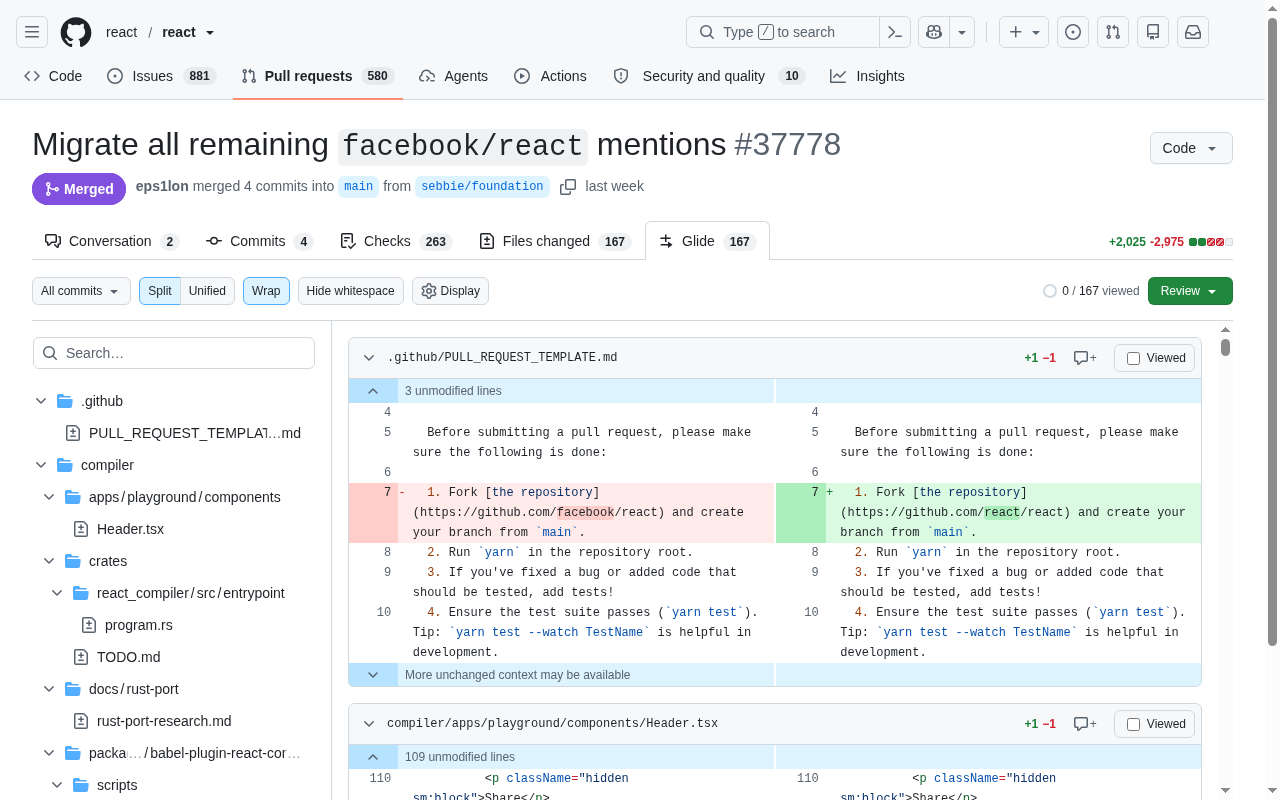
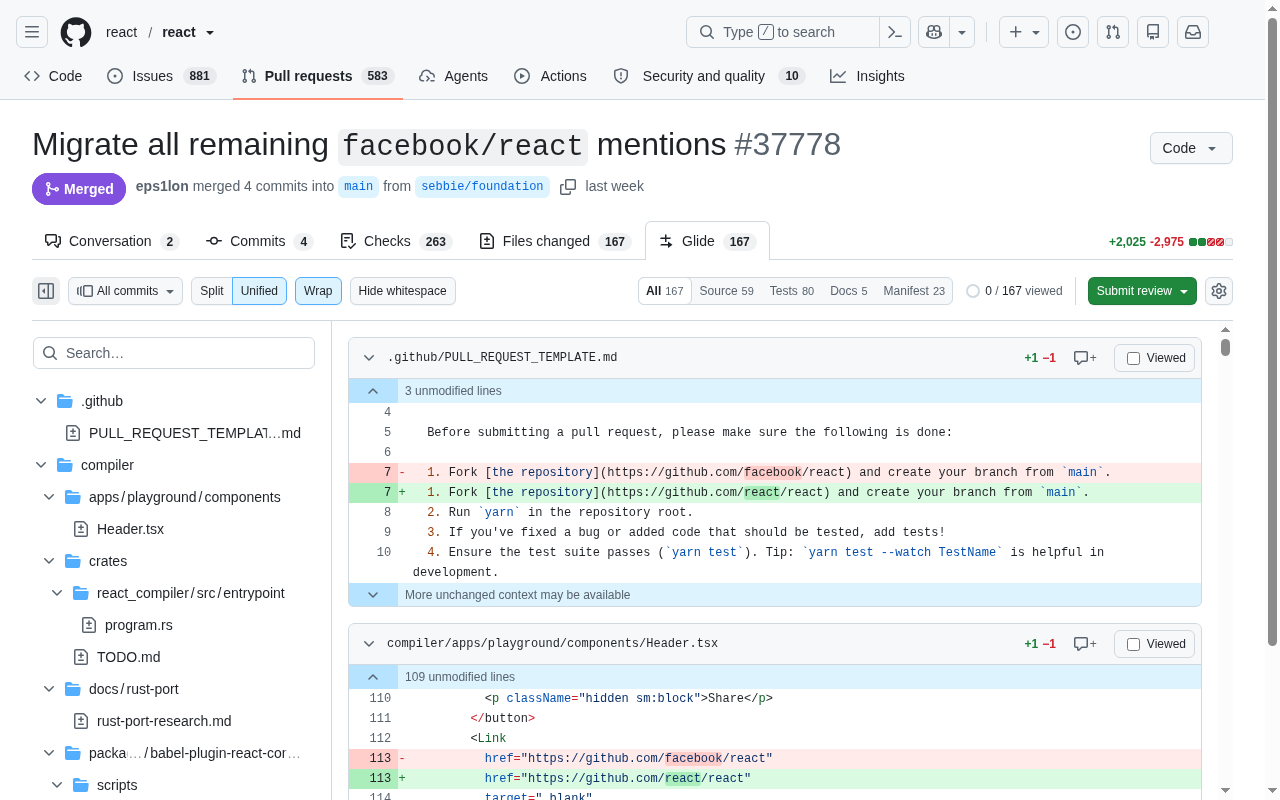
docs(store): retake the screenshots on the current UI and defaults
The script no longer forces Split view: every shot uses the default settings and
file groups (Unified, Wrap), with the profile's own synced items set aside and
restored afterwards. The shots now show the file group tabs and the tree
button in the toolbar, a new fifth shot has the Tests group open, and the
options shot shows the icon, version and File groups section.

Changed region(s): [[0.25, 0.5312, 0.9375, 1.0], [0.5, 0.3438, 0.9688, 0.4062], [0.0312, 0.3438, 0.375, 0.4062]]

diff --git a/store/README.md b/store/README.md
@@ -12,14 +12,18 @@ Everything needed to list and publish Glide for GitHub. Icons and promo tiles ar
 | `screenshots/2-inline-thread.png` | Screenshot | 1280x800 |
 | `screenshots/3-display-menu.png` | Screenshot | 1280x800 |
 | `screenshots/4-options.png` | Screenshot | 1280x800 |
+| `screenshots/5-file-groups.png` | Screenshot | 1280x800 |
 | `promo/small-tile.png` | Small promo tile | 440x280 |
 | `promo/marquee.png` | Marquee promo tile | 1400x560 |
 | `promo/social-preview.png` | GitHub repo social preview (Settings > Social preview) | 1280x640 |
 
 Screenshots are taken by `scripts/store-screenshots.mjs` (headed, on the logged-in e2e profile) from a public PR
 (react/react#37778), with avatars hidden; the script refuses to write one if the signed-in login or a token-looking
-string is visible. The inline thread screenshot shows a comment composer with a draft typed in and then cancelled:
-nothing was posted. The options screenshot omits the saved-token list.
+string is visible. Every shot uses the default settings and file groups: the script sets the profile's own aside and
+restores them afterwards. The inline thread screenshot shows a comment composer with a draft typed in and then
+cancelled: nothing was posted. The file groups screenshot has the Tests group open. The options screenshot shows the
+page's header and its File groups section; the sections above it are left out (the Display ones are in the Display
+menu screenshot, and the saved-token list names the profile's token owners).
 
 ## Listing
 
